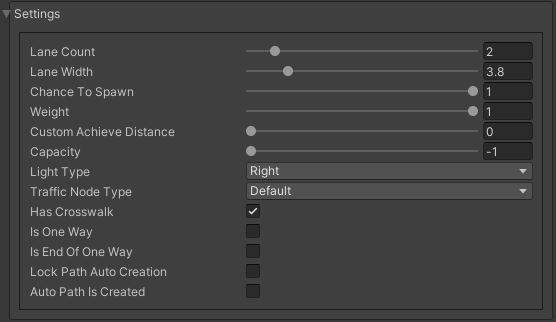
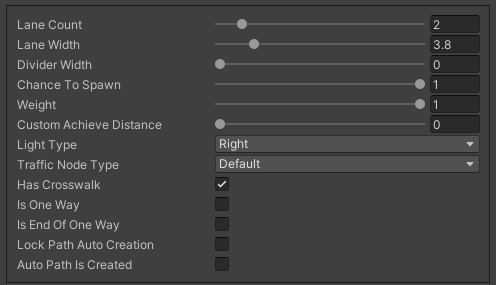
up

diff --git a/docs/source/changelog.rst b/docs/source/changelog.rst
@@ -3,6 +3,38 @@
 Change Log
 ************
 
+[1.0.7] - 24-05-2024
+------------
+
+Added
+~~~~~~~~~~~~
+ 
+* New auto-spline option for `Bezier` curves in the :ref:`Path Creator <pathCreator>`
+* New extrude lane option :ref:`Custom segment <roadSegmentCreatorCustomSegment>` road in the :ref:`RoadSegmentCreator <roadSegmentCreator>`
+* New divider line for :ref:`Traffic nodes <trafficNode>`.
+* New components to interact with :ref:`Hybrid pedestrians <pedestrianHybridLegacy>` from `MonoBehaviour's`.
+* Custom ragdoll user's support for :ref:`Hybrid pedestrians <pedestrianHybridLegacy>`.
+* New custom IDs for vehicles in the :ref:`Car Prefab Creator <carPrefabCreator>`.
+* New car model selection list for the :ref:`player spawner <playerSpawner>` when the player is spawned in the car.
+* User's :ref:`custom camera <customCamera>` integration.
+
+Fixed
+~~~~~~~~~~~~
+
+* Fixed :ref:`Pedestrian node <pedestrianNode>` connection on custom terrain shapes in the :ref:`Pedestrian node creator <pedestrianNodeCreator>`.
+* Fixed auto-switch type for oneway paths in the :ref:`Path Creator <pathCreator>`.
+* Player spawn, if the player originally spawned in the car.
+* Fixed a potential `Type mismatch` error for animation clips in :ref:`Animation Baker <animationBaker>` which could cause the UI to break.
+* Fixed a potential `NaN` position for pedestrian in the `Antistuck system`.
+* Fixed traffic spawner for the path with `0` index.
+* Fixed compatibility with Unity 2023.2.
+
+Changed
+~~~~~~~~~~~~
+
+* :ref:`Pedestrian node <pedestrianNode>` scene filtering updates when node settings are changed in the :ref:`Pedestrian node creator <pedestrianNodeCreator>`.
+* `PedestrianReferences` component renamed to `PedestrianEntityRef`.
+
 [1.0.6] - 22-04-2024
 ------------
 

diff --git a/docs/source/pedestrianInit.rst b/docs/source/pedestrianInit.rst
@@ -33,7 +33,7 @@ Factory
 	#. If necessary, configure :ref:`Ragdoll <pedestrianRagdoll>` and assign to the `Pedestrian Skin Factory Data` (make sure :ref:`Ragdoll <pedestrianRagdoll>` is :ref:`enabled <pedestrianSettingsConfig>`).
 
 	.. note:: 
-		Each `Hybrid legacy` pedestrian prefab should have `PedestrianReferences` component.
+		Each `Hybrid legacy` pedestrian prefab should have `PedestrianEntityRef` component.
 		
 Animations
 """"""""""""""

diff --git a/docs/source/trafficNode.rst b/docs/source/trafficNode.rst
@@ -33,6 +33,7 @@ Settings
 
 | **Lane count** : number of lanes.
 | **Lane width** : lane width.
+| **Divider width** : divider line width.
 | **Chance to spawn** : chance of the vehicle spawning in the node.
 | **Weight** : weight of the node for route selection by traffic.
 | **Custom achieve distance** : custom distance to achieve a node (if 0 value default value will be taken).
